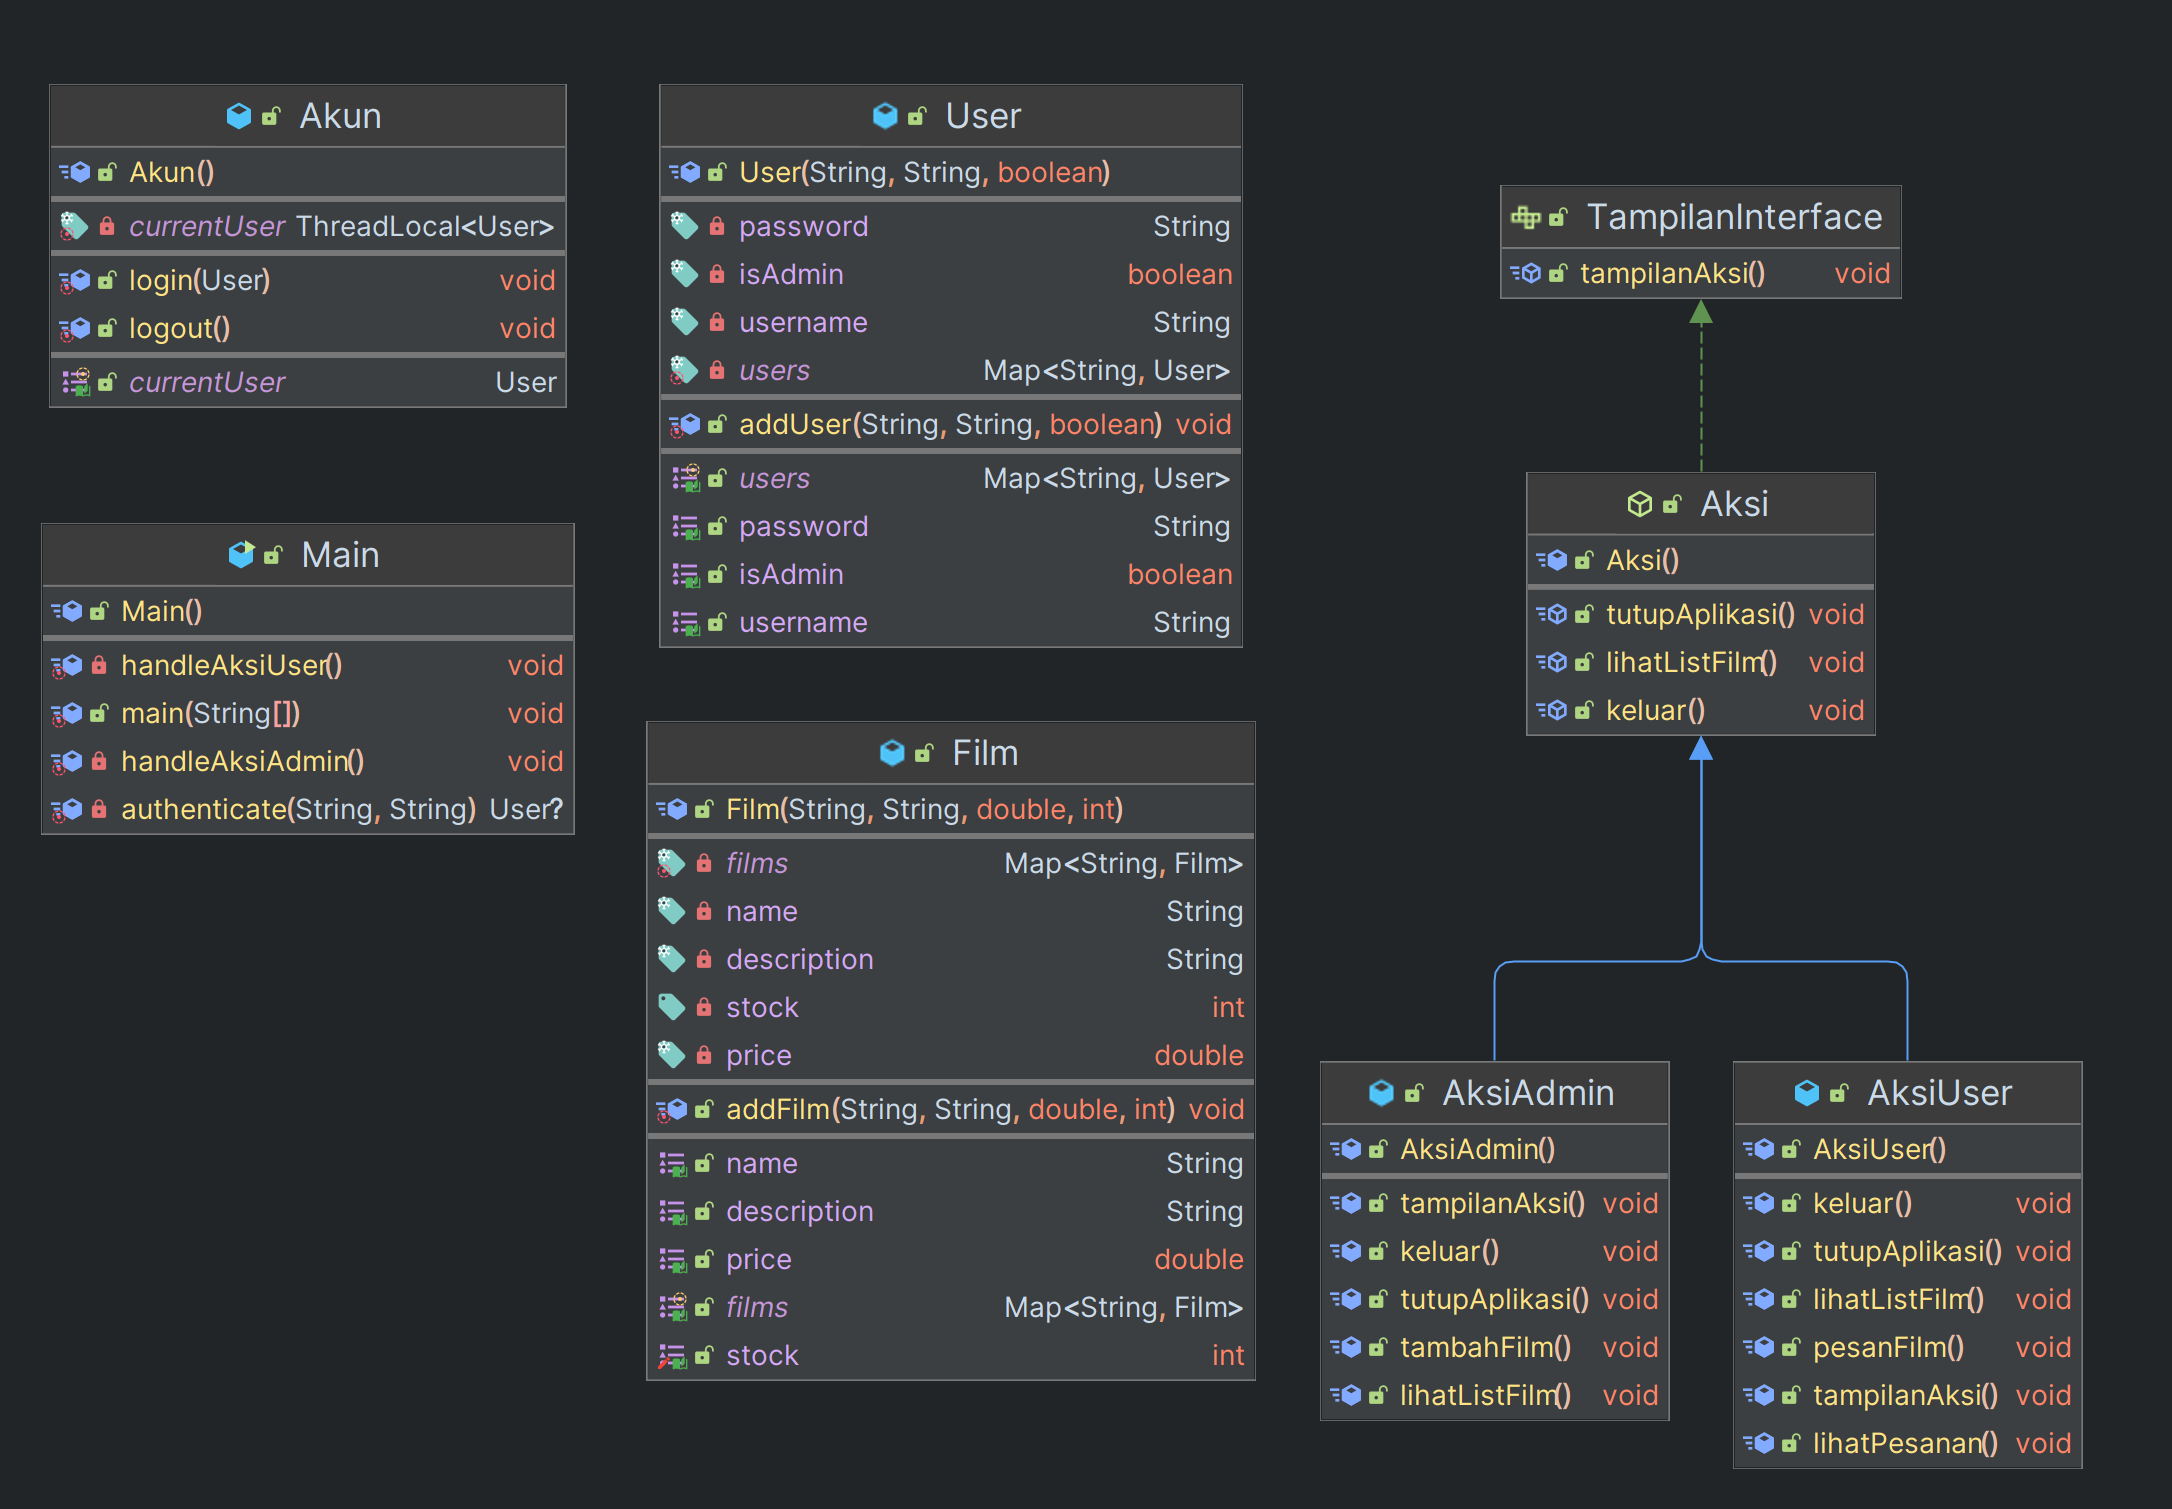
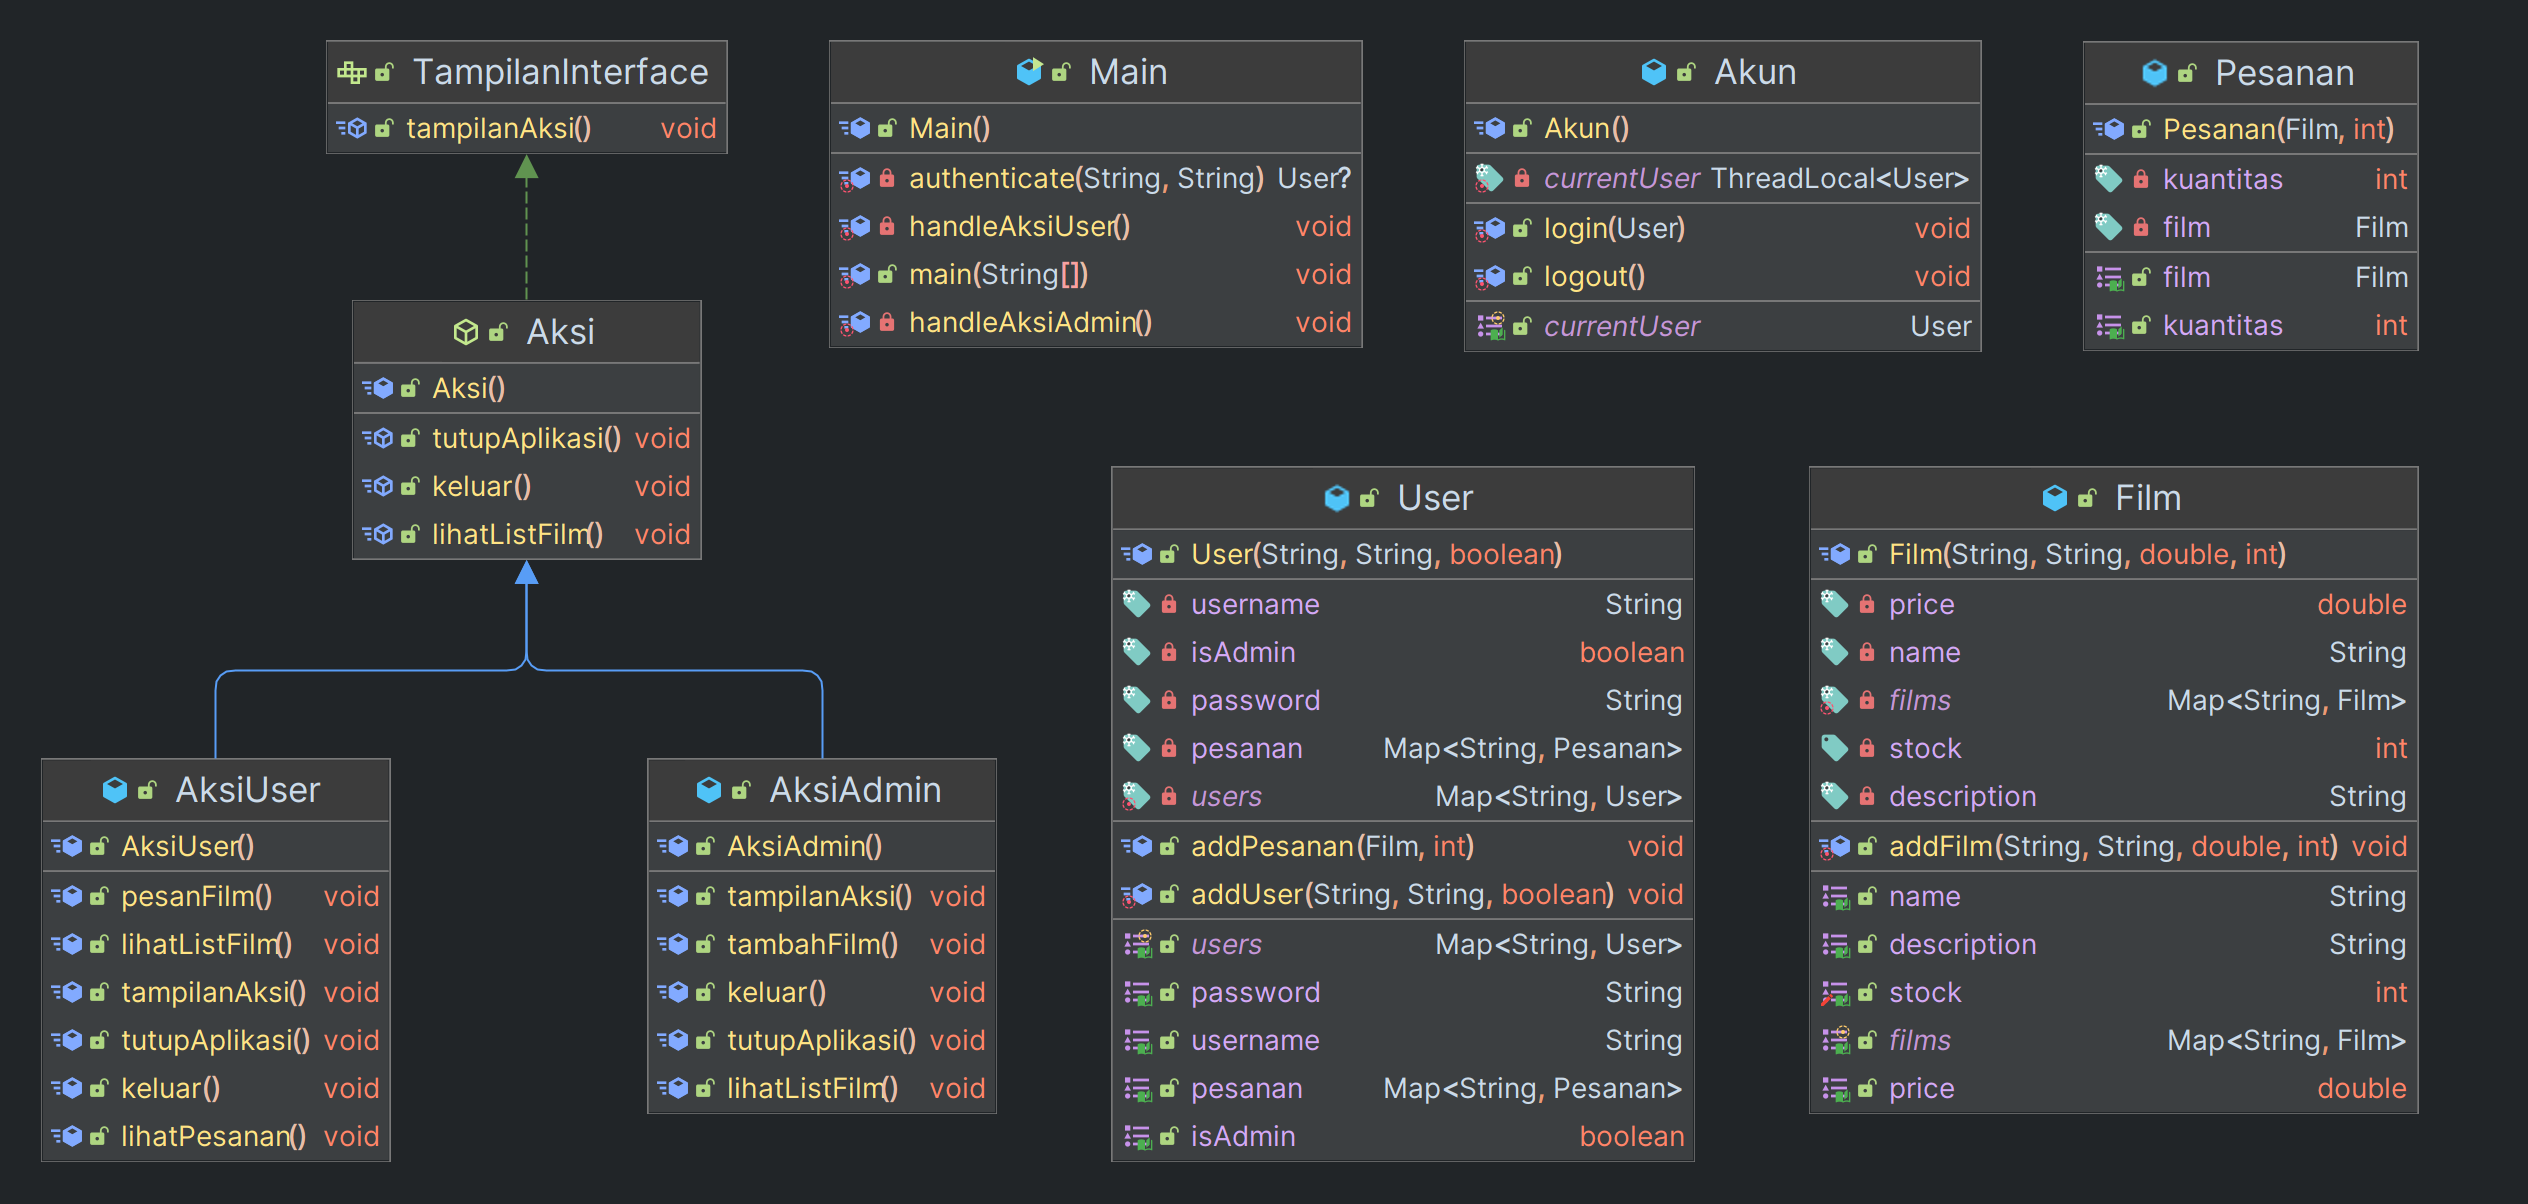
Add Feature Pesanan

diff --git a/src/User.java b/src/User.java
@@ -6,6 +6,7 @@ public class User {
     private final String username;
     private final String password;
     private final boolean isAdmin;
+    private final Map<String, Pesanan> pesanan = new HashMap<>();
 
     public User(String username, String password, boolean isAdmin) {
         this.username = username;
@@ -34,6 +35,15 @@ public class User {
 
     public static Map<String, User> getUsers() {
         return users;
+    }
+
+    public void addPesanan(Film film, int kuantitas) {
+        Pesanan newPesanan = new Pesanan(film, kuantitas);
+        pesanan.put(film.getName(), newPesanan);
+    }
+
+    public Map<String, Pesanan> getPesanan() {
+        return pesanan;
     }
 }
 

diff --git a/src/Pesanan.java b/src/Pesanan.java
@@ -1,0 +1,17 @@
+public class Pesanan {
+    private final Film film;
+    private final int kuantitas;
+
+    public Pesanan(Film film, int kuantitas) {
+        this.film = film;
+        this.kuantitas = kuantitas;
+    }
+
+    public Film getFilm() {
+        return film;
+    }
+
+    public int getKuantitas() {
+        return kuantitas;
+    }
+}

diff --git a/README.md b/README.md
@@ -22,4 +22,4 @@ Jika stok tiket untuk suatu film habis, maka film tersebut tidak dapat dipesan o
 ## Struktur Kelas
 Diagram berikut menunjukkan struktur kelas yang digunakan dalam aplikasi ini:
 
-<img src="Diagram.png" width="2172" alt="Diagram"/>
+<img src="diagram.png" width="2528" alt="Class Diagram"/>
